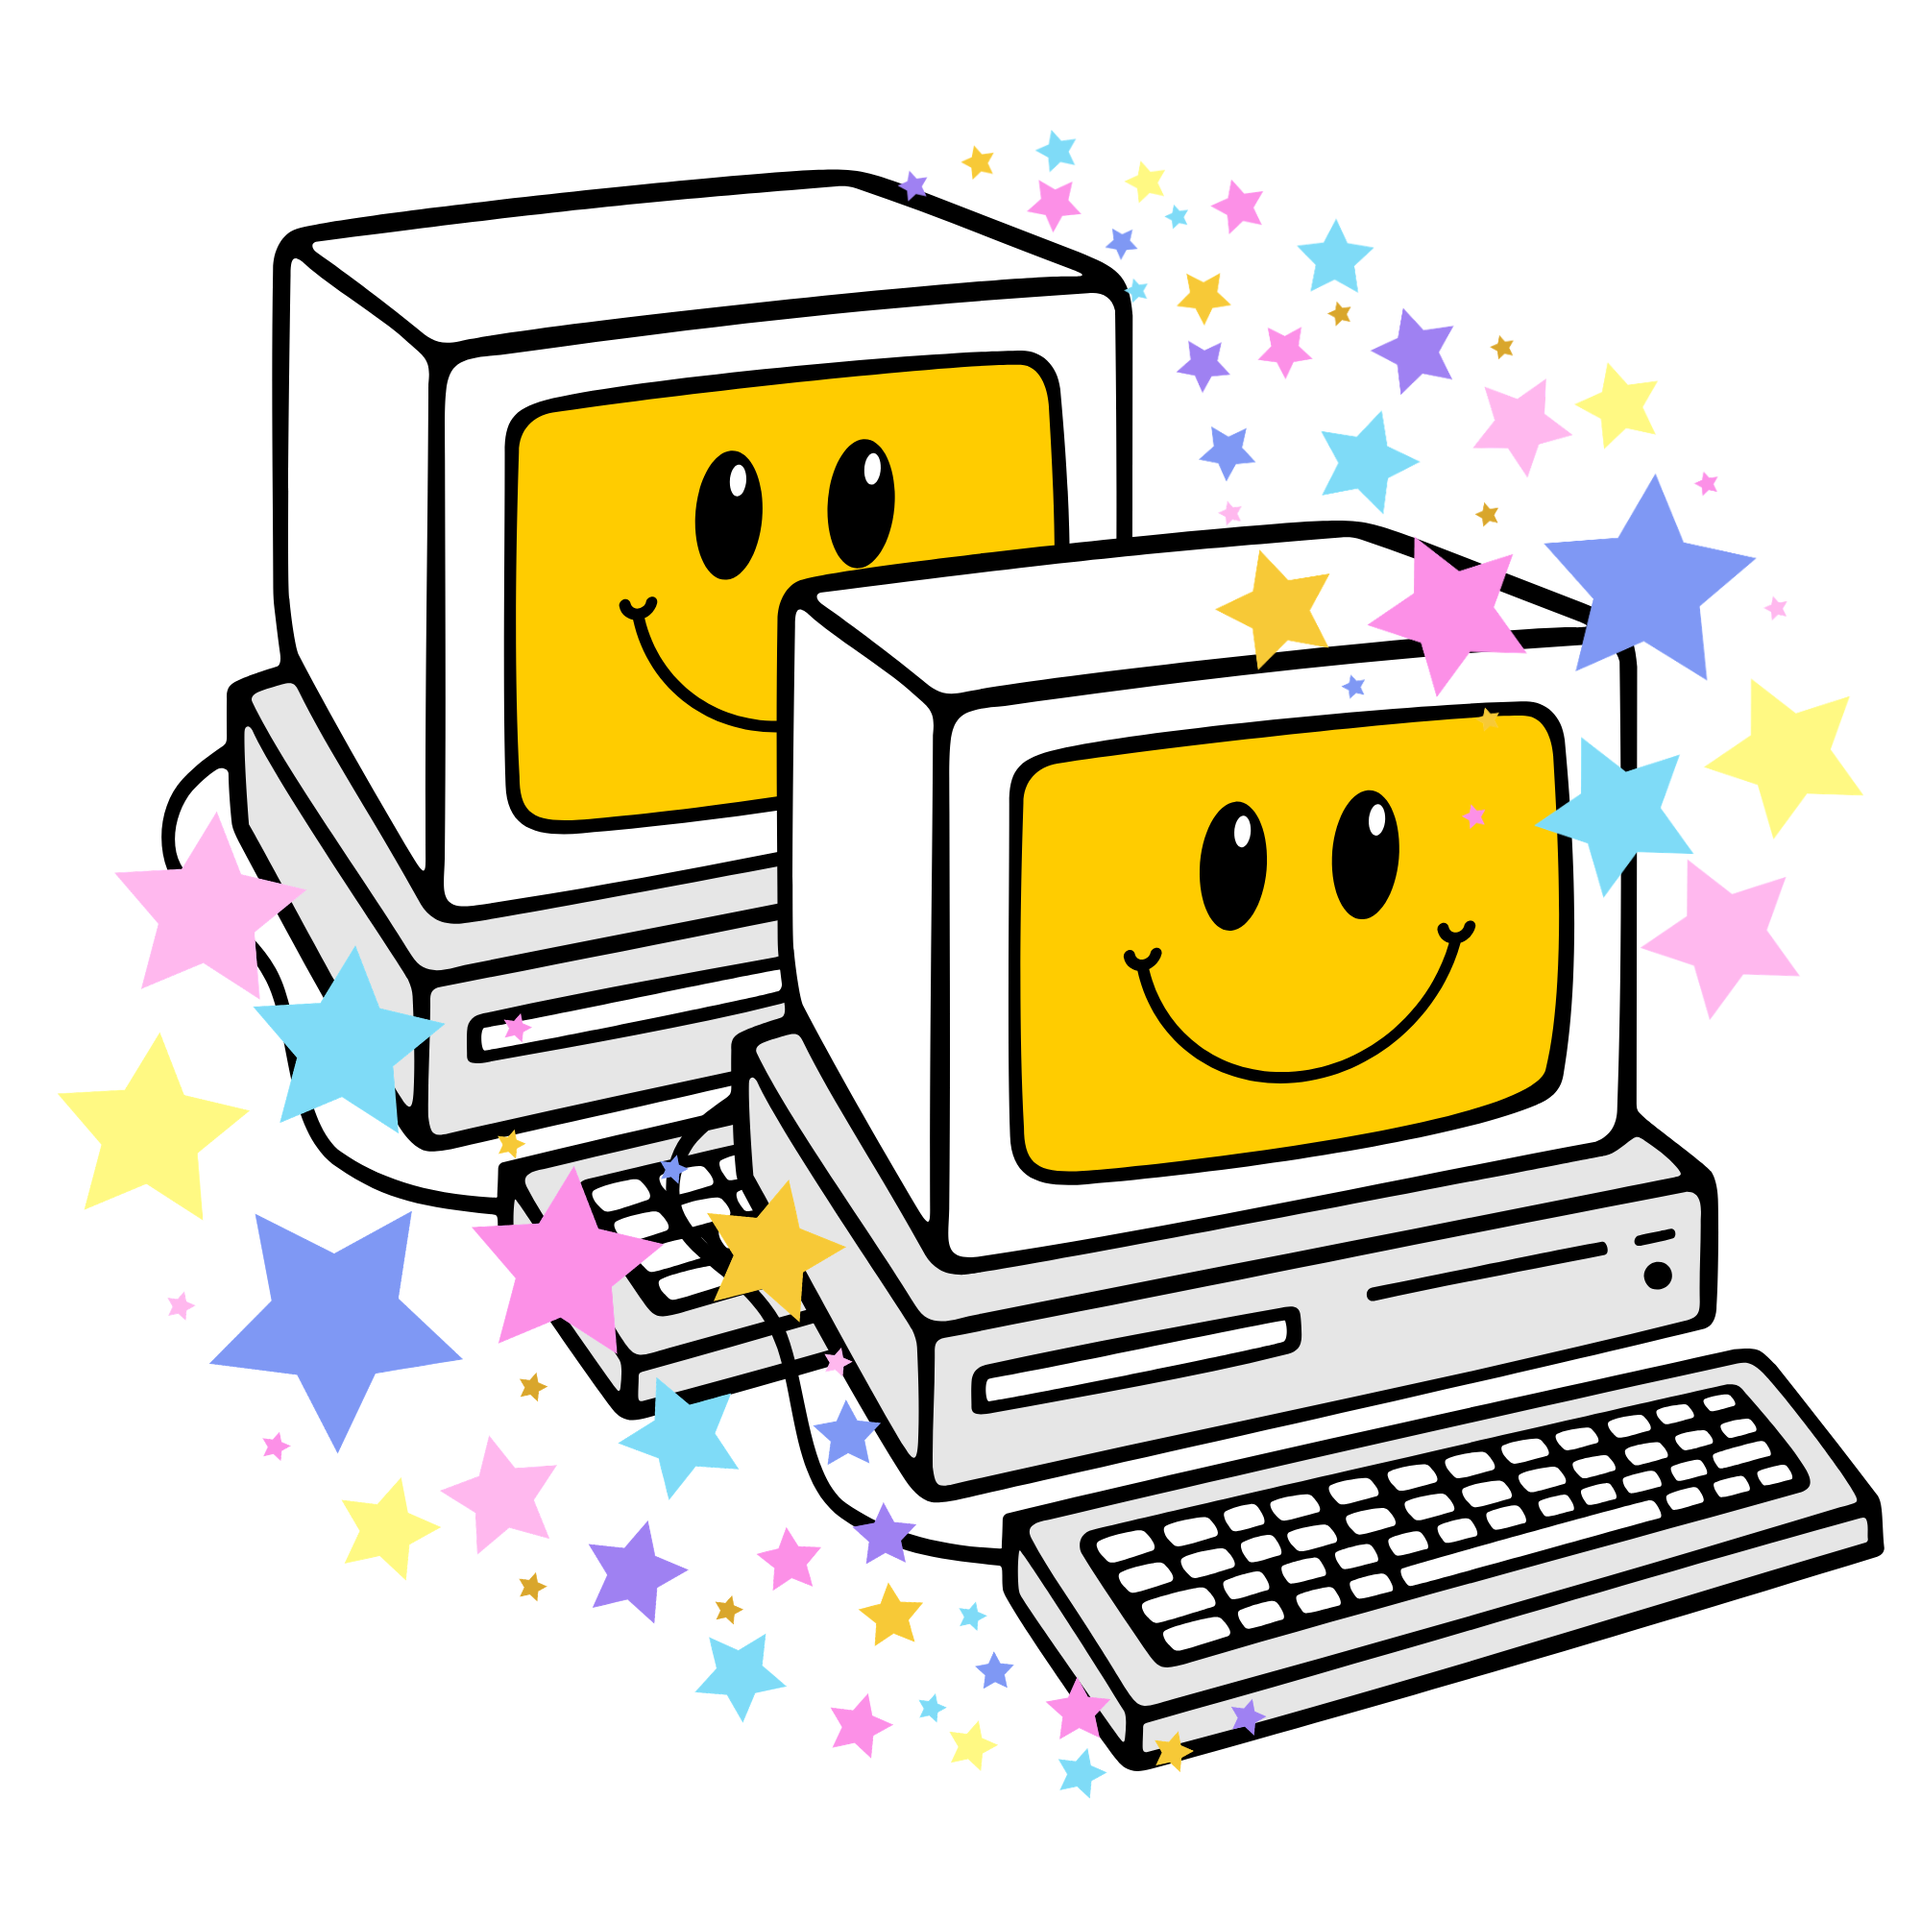
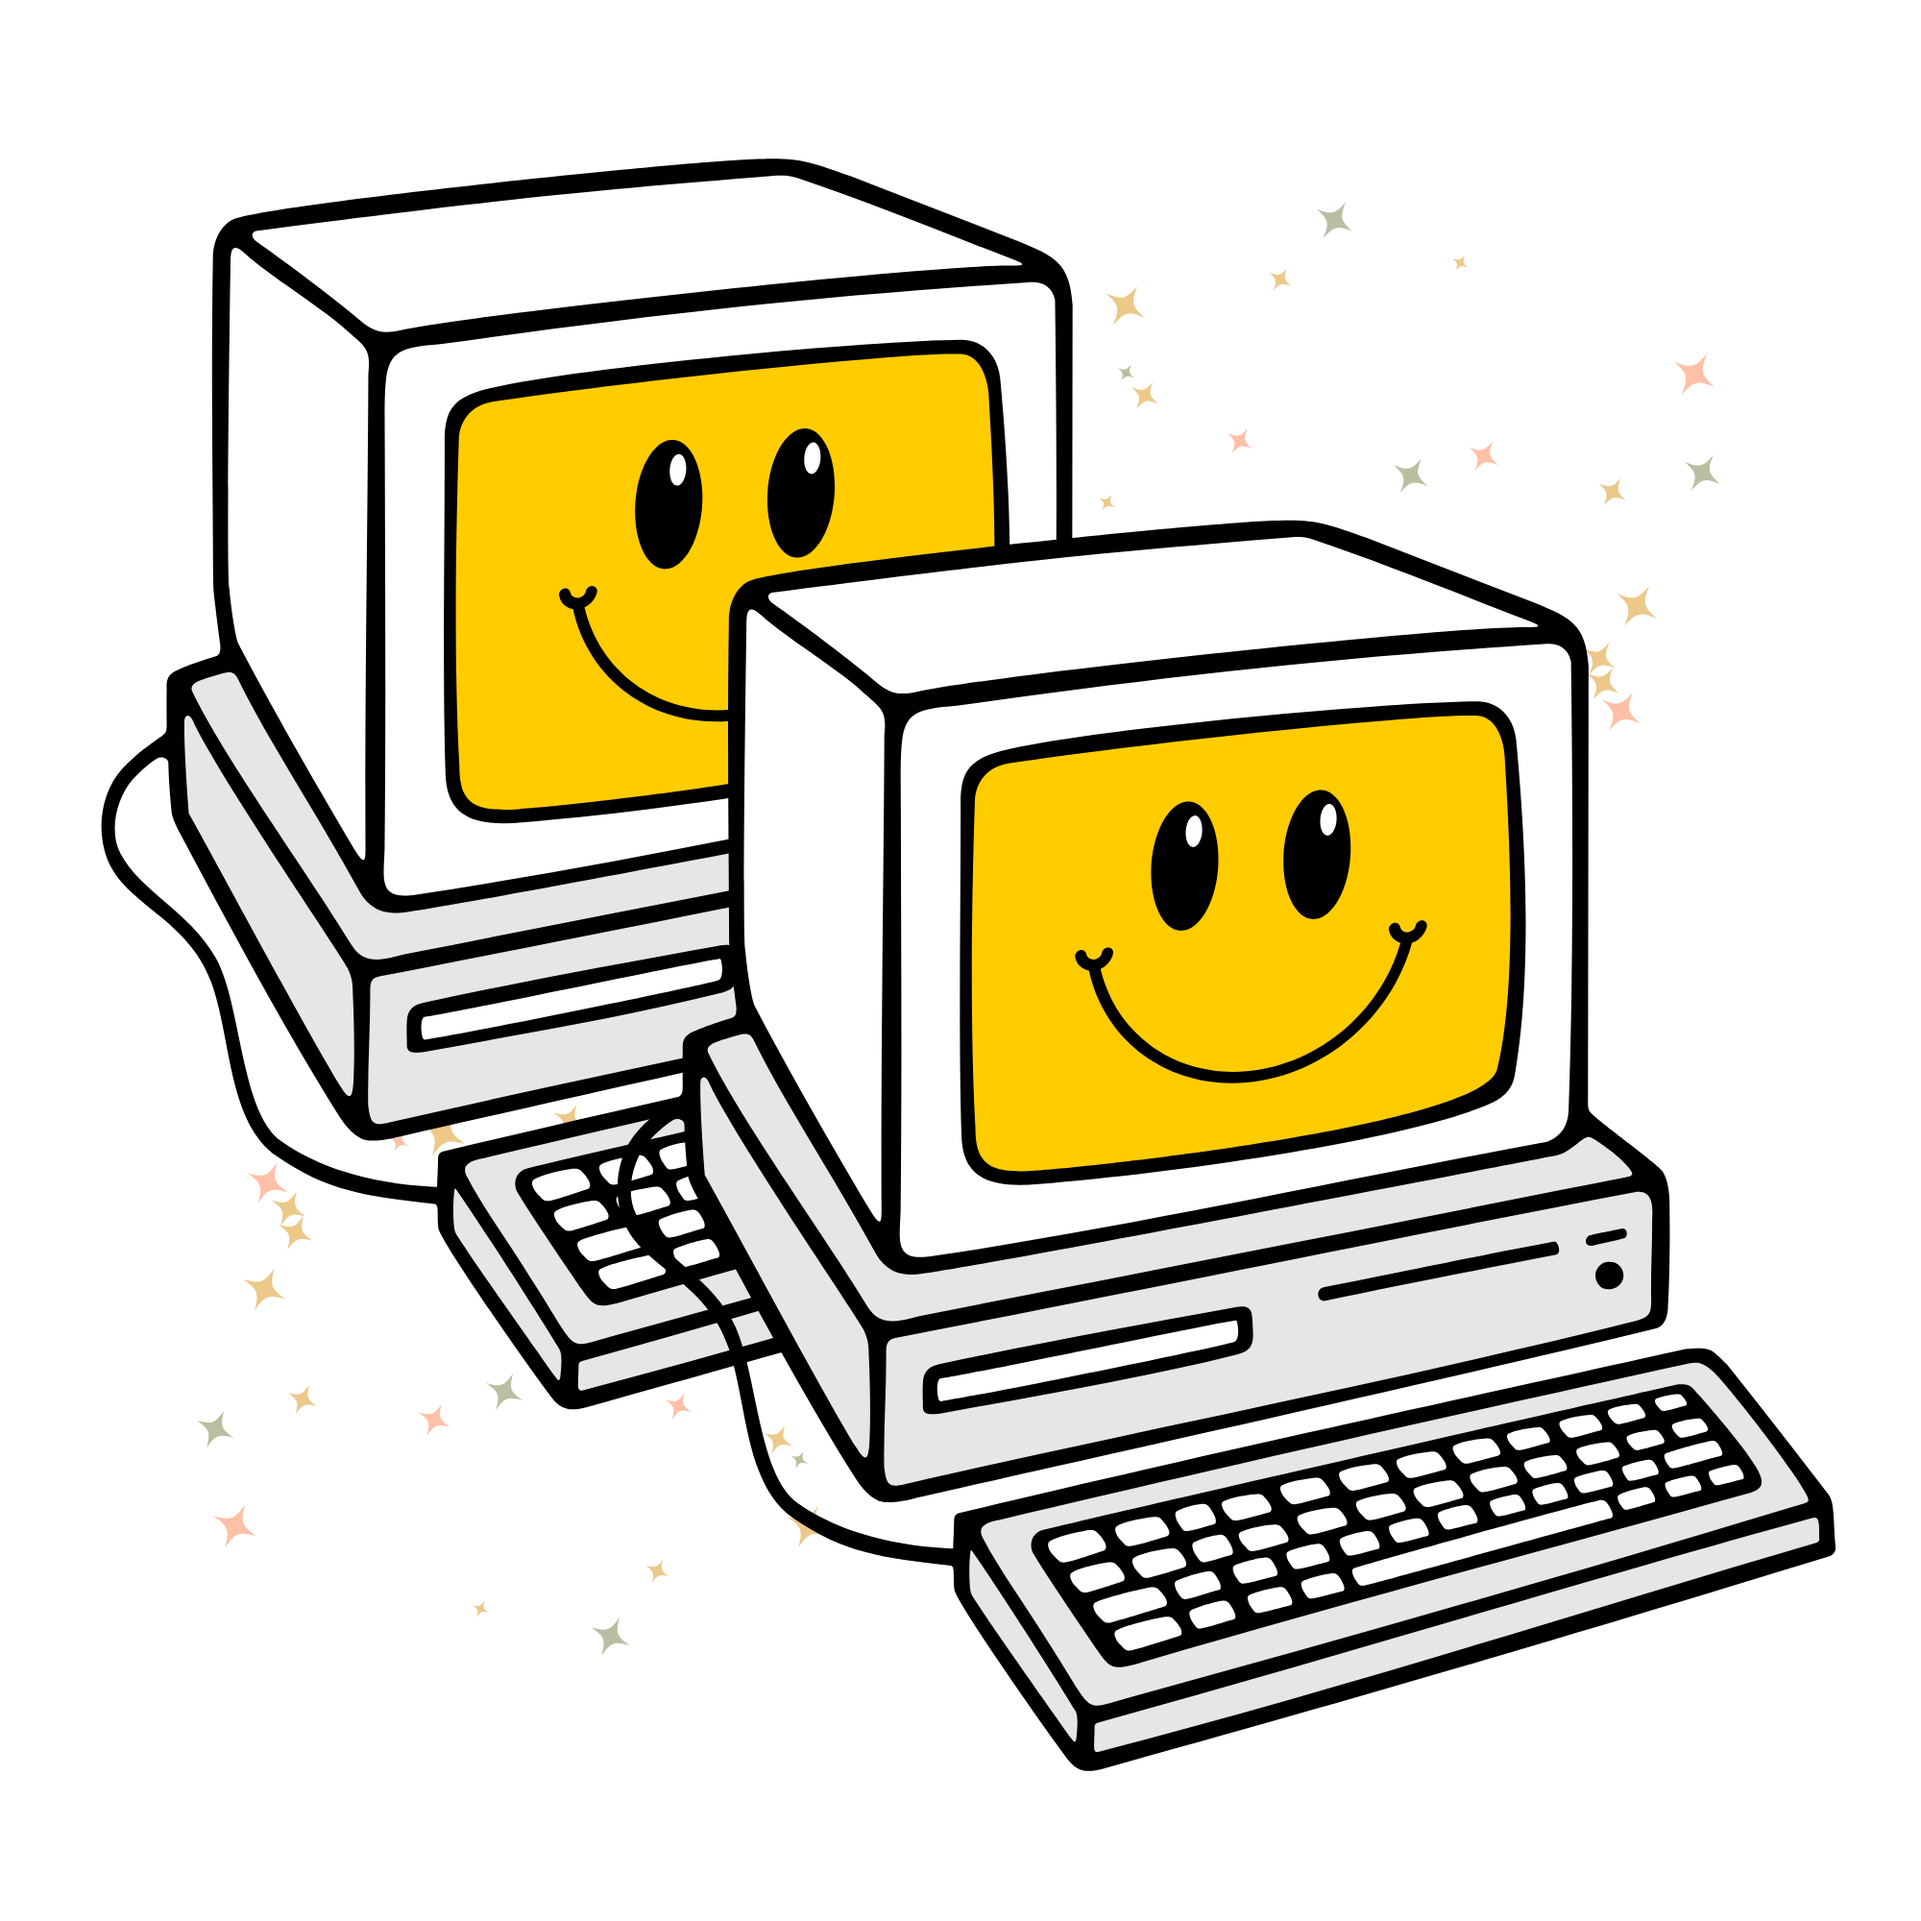
[refactor] intro, index, hero img (Issue #190)

diff --git a/_layouts/default.html b/_layouts/default.html
@@ -32,6 +32,14 @@
       object-fit: cover;
     }
 
+    .blog-seeing-double-img img {
+      max-width: 70%;
+      height: auto;
+      display: block;
+      margin: -2rem auto;
+      object-fit: cover;
+    }
+
     [data-theme="light"] {
       --text: #2c2c2c;
       --muted: #7a7060;

diff --git a/blogs/seeing-double.md b/blogs/seeing-double.md
@@ -5,9 +5,11 @@ permalink: /blogs/seeing-double
 parent: Blogs
 ---
 
-# Seeing Double
+# Seeing Double: Examining a Codex Rendering Bug
 
-![Two identical computers smile with stars framing them](../static/assets/seeing-double.png)
+<div class="blog-seeing-double-img">
+  <img src="../static/assets/seeing-double.png" alt="Two identical computers smile with stars framing them">
+</div>
 
 AET research concerns remain capturing default behavior to assess documentation truncation
 risk across the web. Each platform testing cycle offers opportunities to adapt to
@@ -17,15 +19,13 @@ is the fourth in a series of chat-based agent testing which builds on previous f
 deployment context comparison. Codex testing first felt expansive,
 [LLM x Intelligence Matrix](https://rhyannonjoy.github.io/agent-ecosystem-testing/docs/open-ai-codex/friction-note-interpreted-desktop#llm--intelligence-matrix)
 now restrive, [LLM Retirement](https://rhyannonjoy.github.io/agent-ecosystem-testing/docs/open-ai-codex/friction-note-interpreted-extension#llm-retirement),
-
-How did we get to the logs?
-Opportunity to capture more data, influenced process change in which run and log tests in batches
-Previously I wasn't even looking at session output after they had ran, but that changed with the volume up
-Among the version updates, I noticed that data had changed and started to poke around more. Noticed
-session terminal execution details gone, cleaned up, timer drift.
-[Autonomous Post-Hoc Session Alterations](https://rhyannonjoy.github.io/agent-ecosystem-testing/docs/open-ai-codex/friction-note-interpreted-desktop#autonomous-post-hoc-session-alterations)
-but on the second track, there was doubling
-[Autonomous Post-Hoc Session Double Rendering](https://rhyannonjoy.github.io/agent-ecosystem-testing/docs/open-ai-codex/friction-note-interpreted-extension#autonomous-post-hoc-session-double-rendering) and I dug in more.
+and the rollercoaster influenced the run-observe-log process to include first pass documenting
+and second pass logging in batches, allowing for more granular reporting to handle the bump in data volume.
+While testing the desktop app for Track 1, agent output changed in the form of clipping command executions,
+report correction, and timer continuation as described in
+[Autonomous Post-Hoc Session Alterations](https://rhyannonjoy.github.io/agent-ecosystem-testing/docs/open-ai-codex/friction-note-interpreted-desktop#autonomous-post-hoc-session-alterations),
+but while testing the VS Code extension for Track 2, outputs weren't corrected but duplicated, as documented in
+[Autonomous Post-Hoc Session Double Rendering](https://rhyannonjoy.github.io/agent-ecosystem-testing/docs/open-ai-codex/friction-note-interpreted-extension#autonomous-post-hoc-session-double-rendering).
 
 ## What the logs actually contain
 

diff --git a/index.md b/index.md
@@ -17,7 +17,8 @@ data for the [Agent-Friendly Documentation Spec](https://agentdocsspec.com/).
 
 | **Post** | **Focus** |
 | -------- | --------- |
-| **[Field Notes from a Yelper: Guerrilla Testing Agents](/blogs/field-notes-from-yelper.md)** | Methodology evolution: what broke,<br>what changed, and letting data lead |
+| **[Field Notes from a Yelper: Guerrilla Testing Agents](/blogs/field-notes-from-yelper.md)** | Methodology evolution: what broke, what changed, letting data lead |
+| **[Seeing Double: Examining a Codex Rendering Bug](/blogs/seeing-double.md)** | Beyond agent output, troubleshooting chat quirks |
 
 ## Documentation Structure
 
